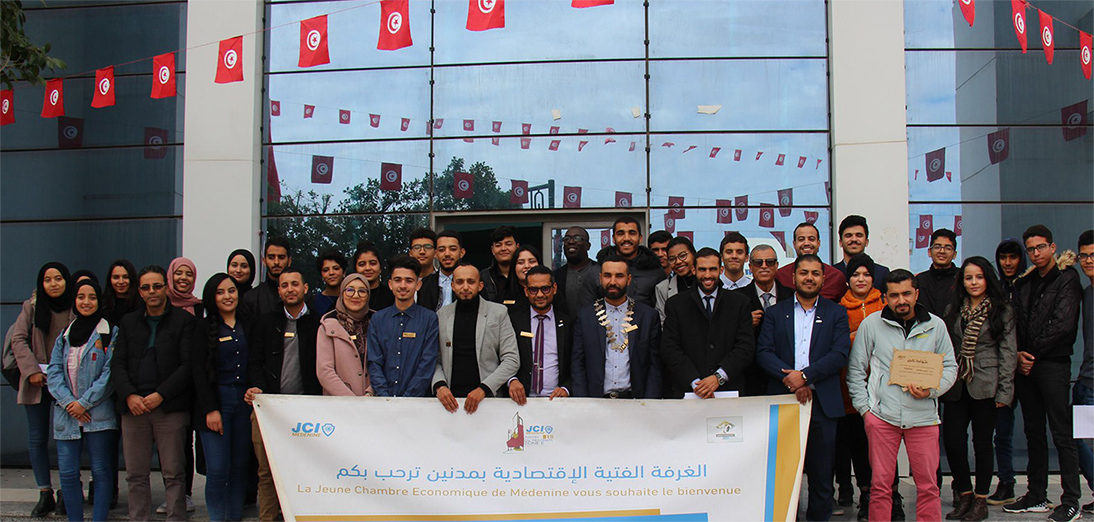
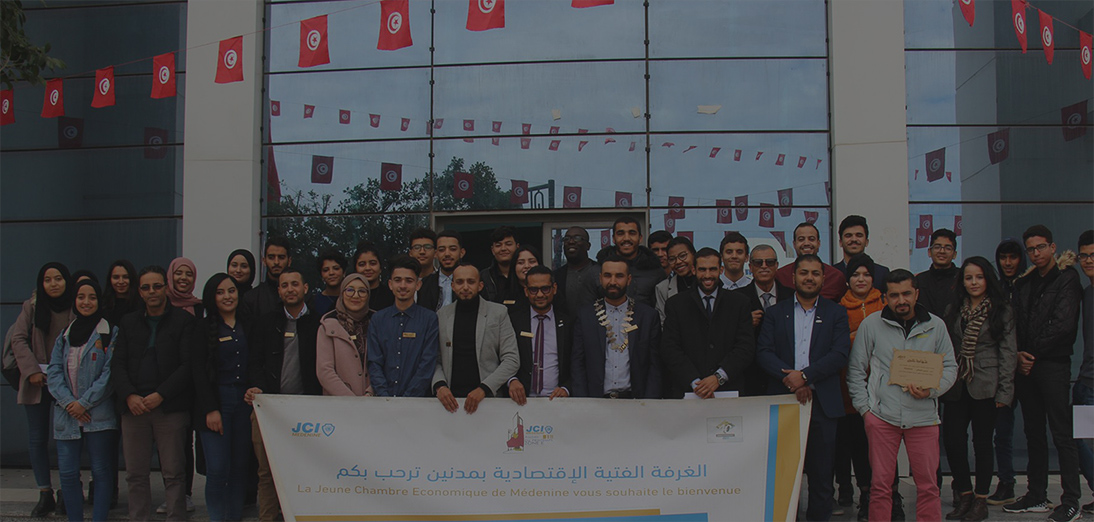
activities

diff --git a/index.html b/index.html
@@ -160,12 +160,12 @@
       </h4>
       <div class="glider-contain2">
         <div class="glider2">
-          <img src="assets/event1.png">
-          <img src="assets/event1.png">
-          <img src="assets/event1.png">
-          <img src="assets/event1.png">
-          <img src="assets/event1.png">
-          <img src="assets/event1.png">
+          <img src="assets/event1.jpg">
+          <img src="assets/event2.jpg">
+          <img src="assets/event3.jpg">
+          <img src="assets/event1.jpg">
+          <img src="assets/event2.jpg">
+          <img src="assets/event3.jpg">
         </div>
         <!-- <button aria-label="Previous" class="glider-prev2"><i class="fas fa-chevron-left fa-xs"></i></button>
         <button aria-label="Next" class="glider-next2"><i class="fas fa-chevron-right fa-xs"></i></button> -->
@@ -185,6 +185,7 @@
             <img src="assets/fm-05.png">
             <img src="assets/fm-06.png">
             <img src="assets/fm-07.png">
+            <img src="assets/fm-08.png">
           </div>
           <button aria-label="Previous" class="glider-prev"><i class="fas fa-chevron-left fa-xs"></i></button>
           <button aria-label="Next" class="glider-next"><i class="fas fa-chevron-right fa-xs"></i></button>
@@ -260,7 +261,7 @@
         <!--/.footer-->            
         <div class="footer-bottom">
             <div class="container">
-                <p class="copyright"> Copyright © 2020, Made With ❤ by <a href="https://azizamari.github.io/" target="blank">Aziz Amari</a></p>
+                <p class="copyright"> Copyright © 2021, Made With ❤ by <a href="https://azizamari.github.io/" target="blank">Aziz Amari</a></p>
             </div>
         </div>
         <!--/.footer-bottom--> 

diff --git a/style.css b/style.css
@@ -13,7 +13,7 @@ html{
   height: 100vh;
   position: relative;
   overflow: hidden;
-  background: linear-gradient(150deg,rgba(34, 34, 34,0.5),rgba(34, 34, 34,0.5)),url("./background.jpg") no-repeat center center fixed;
+  background: url("./background.jpg") no-repeat center center fixed;
   -webkit-background-size: cover;
   -moz-background-size: cover;
   -o-background-size: cover;
@@ -325,8 +325,6 @@ box-shadow: 0 1px 0 #B4B3B3;
 
 
 .footer-bottom {
-margin-top: 2em;
-border-top: 1px solid #DDDDDD;
 padding-top: 20px;
 padding-bottom: 10px;
 }
@@ -436,6 +434,9 @@ padding-bottom: 10px;
 @media (max-width:500px){
   .about{
     height:150vh;
+  }
+  .activities{
+    height:65vh;
   }
 }
 @media (max-width:300px){
